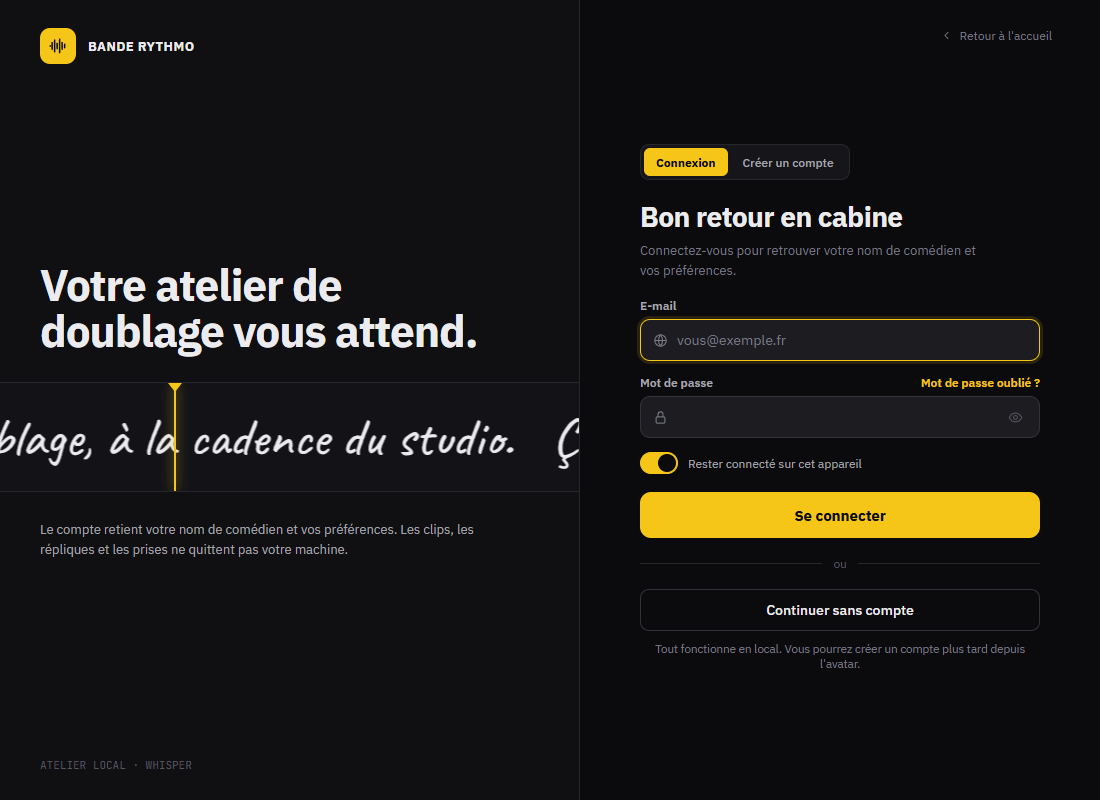
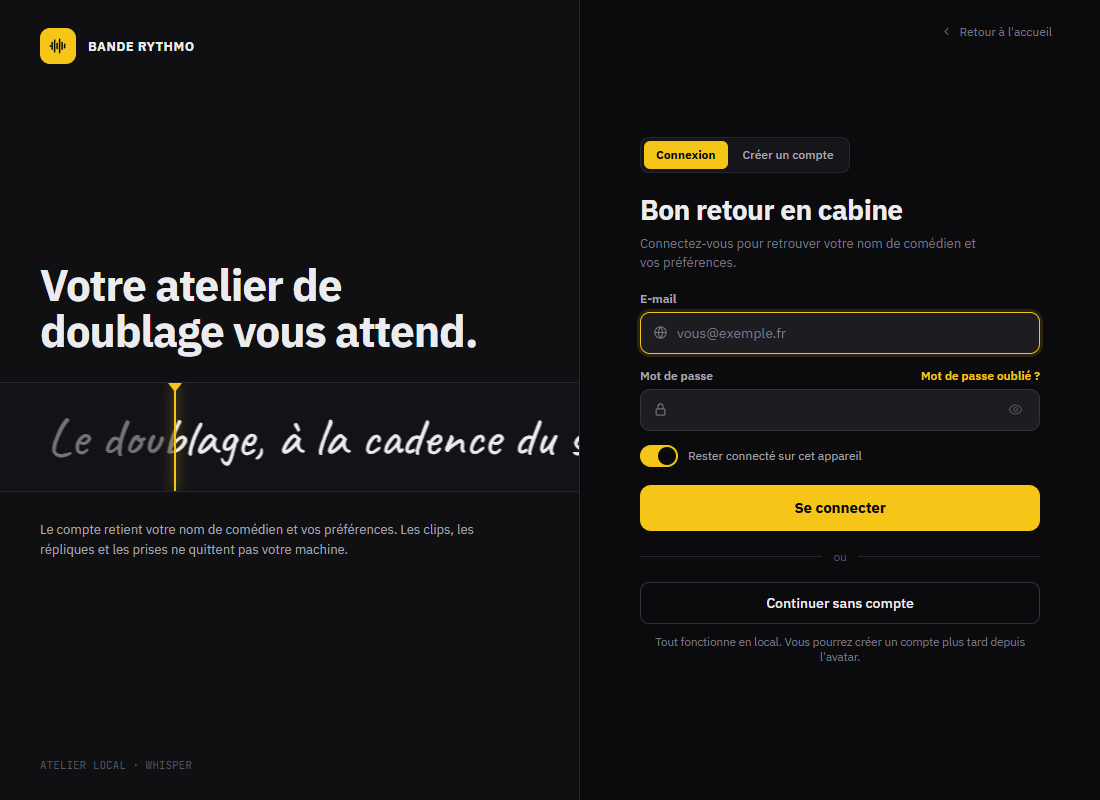
docs(design): Home + Account round 2 report and proofs

diff --git a/design/accounts_home_proofs/shoot_home_stills.py b/design/accounts_home_proofs/shoot_home_stills.py
@@ -1,0 +1,239 @@
+"""Home page stills + OG image (headless Chrome over CDP), on Tears of Steel.
+
+Usage: shoot_home_stills.py <clip_id> <source.mov> [--app URL] [--out DIR] [--port N]
+
+Writes <out>/{import,editor,studio,export}.png at 1440x900 and <out>/../og.png
+at 1200x630. The clip is the Tears of Steel excerpt imported in the
+Bibliothèque. The Importer shot registers the source in memory
+(/api/files/register) and answers its file picker with that source; every
+other non-GET /api/ request is refused — nothing is written to the database.
+
+Tears of Steel: (CC) Blender Foundation | mango.blender.org — CC BY 3.0.
+"""
+import argparse
+import asyncio
+import base64
+import json
+import os
+import subprocess
+import tempfile
+import time
+import urllib.parse
+import urllib.request
+import uuid
+
+import websockets
+
+CHROME = r"C:\Program Files\Google\Chrome\Application\chrome.exe"
+W, H = 1440, 900
+
+_args = argparse.ArgumentParser(description=__doc__, formatter_class=argparse.RawDescriptionHelpFormatter)
+_args.add_argument("clip_id")
+_args.add_argument("source")
+_args.add_argument("--app", default="http://localhost:5173/")
+_args.add_argument("--out", default="frontend/public/home")
+_args.add_argument("--port", type=int, default=9336)
+ARGS = _args.parse_args()
+ROOT = ARGS.app if ARGS.app.endswith("/") else ARGS.app + "/"
+APP = ROOT + "app/"
+SOURCE = os.path.abspath(ARGS.source)
+
+
+def api(method, path, **query):
+    url = ROOT + "api" + path + ("?" + urllib.parse.urlencode(query) if query else "")
+    req = urllib.request.Request(url, method=method, data=b"" if method == "POST" else None)
+    with urllib.request.urlopen(req, timeout=60) as r:
+        return json.loads(r.read())
+
+
+class CDP:
+    def __init__(self, ws):
+        self.ws, self.n = ws, 0
+        self.pending, self.handlers = {}, {}
+        self.reader = asyncio.create_task(self._read())
+
+    async def _read(self):
+        async for raw in self.ws:
+            msg = json.loads(raw)
+            if "id" in msg:
+                fut = self.pending.pop(msg["id"], None)
+                if fut and not fut.done():
+                    fut.set_result(msg)
+            elif msg.get("method") in self.handlers:
+                asyncio.create_task(self.handlers[msg["method"]](msg.get("params", {})))
+
+    def on(self, method, handler):
+        self.handlers[method] = handler
+
+    async def call(self, method, **params):
+        self.n += 1
+        mid = self.n
+        fut = asyncio.get_running_loop().create_future()
+        self.pending[mid] = fut
+        await self.ws.send(json.dumps({"id": mid, "method": method, "params": params}))
+        msg = await fut
+        if "error" in msg:
+            raise RuntimeError(f"{method}: {msg['error']}")
+        return msg.get("result", {})
+
+    async def js(self, expr):
+        r = await self.call("Runtime.evaluate", expression=expr, awaitPromise=True, returnByValue=True)
+        if "exceptionDetails" in r:
+            raise RuntimeError(r["exceptionDetails"].get("text", "js error") + " :: " + expr[:80])
+        return r.get("result", {}).get("value")
+
+    async def shot(self, path):
+        os.makedirs(os.path.dirname(path), exist_ok=True)
+        r = await self.call("Page.captureScreenshot", format="png")
+        with open(path, "wb") as f:
+            f.write(base64.b64decode(r["data"]))
+        print("saved", path)
+
+    async def go(self, url, wait=3.0):
+        await self.call("Page.navigate", url="about:blank")
+        await asyncio.sleep(0.2)
+        await self.call("Page.navigate", url=url)
+        await asyncio.sleep(wait)
+
+    async def key(self, key, code, vk, text=None):
+        base = dict(key=key, code=code, windowsVirtualKeyCode=vk)
+        await self.call("Input.dispatchKeyEvent", type="rawKeyDown", **base)
+        if text:
+            await self.call("Input.dispatchKeyEvent", type="char", text=text, **base)
+        await self.call("Input.dispatchKeyEvent", type="keyUp", **base)
+        await asyncio.sleep(0.3)
+
+
+async def seek(cdp, t):
+    await cdp.js(f"""new Promise(r => {{ const v = document.querySelector('video');
+      v.pause(); v.addEventListener('seeked', () => setTimeout(r, 400), {{ once: true }}); v.currentTime = {t} }})""")
+
+
+async def set_value(cdp, selector, value):
+    """Type into a React-controlled input (native setter + input event)."""
+    await cdp.js(f"""(() => {{
+      const el = document.querySelector({json.dumps(selector)});
+      Object.getOwnPropertyDescriptor(HTMLInputElement.prototype, 'value').set.call(el, {json.dumps(value)});
+      el.dispatchEvent(new Event('input', {{ bubbles: true }}));
+      return 1 }})()""")
+    await asyncio.sleep(0.3)
+
+
+async def nav_to(cdp, section, clip_id):
+    nav = json.dumps(json.dumps({"section": section, "clipId": clip_id}))
+    await cdp.go(APP, wait=1.5)
+    await cdp.js(f"localStorage.setItem('br-coachmark-seen', '1'); sessionStorage.setItem('br-nav', {nav}); location.reload(); 1")
+    await asyncio.sleep(3.5)
+    await cdp.call("Input.dispatchMouseEvent", type="mouseMoved", x=W - 2, y=H - 2)
+
+
+async def run():
+    pick = {"source_id": str(uuid.uuid4()), "filename": os.path.basename(SOURCE), "path": SOURCE}
+    api("POST", "/files/register", source_id=pick["source_id"], stream_url=SOURCE, filename=pick["filename"])
+    # Shown under the title: a neutral path, not this machine's user folder.
+    pick.update(path="D:\\Rushes\\" + pick["filename"], video_streams=[], audio_streams=[])
+
+    req = urllib.request.Request(f"http://127.0.0.1:{ARGS.port}/json/new?about:blank", method="PUT")
+    target = json.loads(urllib.request.urlopen(req).read())
+    async with websockets.connect(target["webSocketDebuggerUrl"], max_size=80_000_000) as ws:
+        cdp = CDP(ws)
+        await cdp.call("Page.enable")
+        await cdp.call("Runtime.enable")
+        await cdp.call("Emulation.setDeviceMetricsOverride", width=W, height=H, deviceScaleFactor=1, mobile=False)
+
+        async def on_paused(p):
+            rid, r = p["requestId"], p["request"]
+            path = urllib.parse.urlparse(r["url"]).path
+            if path == "/api/files/pick":
+                body = base64.b64encode(json.dumps(pick).encode()).decode()
+                await cdp.call("Fetch.fulfillRequest", requestId=rid, responseCode=200, body=body,
+                               responseHeaders=[{"name": "Content-Type", "value": "application/json"}])
+            elif r["method"] != "GET" and path.startswith("/api/"):
+                print("  blocked", r["method"], path)
+                body = base64.b64encode(b'{"detail":"bloque par shoot_home_stills.py"}').decode()
+                await cdp.call("Fetch.fulfillRequest", requestId=rid, responseCode=503, body=body,
+                               responseHeaders=[{"name": "Content-Type", "value": "application/json"}])
+            else:
+                await cdp.call("Fetch.continueRequest", requestId=rid)
+
+        cdp.on("Fetch.requestPaused", on_paused)
+        await cdp.call("Fetch.enable", patterns=[{"urlPattern": "*/api/*", "requestStage": "Request"}])
+
+        # Importer: the source open, IN at 0:20 and OUT at 0:56 (the excerpt).
+        await nav_to(cdp, "import", None)
+        await cdp.js("""(() => { const b = [...document.querySelectorAll('button')].find(x => /Fichier local/.test(x.innerText)); b?.click(); return 1 })()""")
+        await asyncio.sleep(0.5)
+        await cdp.js("""(() => { const b = [...document.querySelectorAll('button, [role=button]')].find(x => /choisir un fichier local/i.test(x.innerText) && x.offsetParent); b?.click(); return 1 })()""")
+        await asyncio.sleep(4)
+        await seek(cdp, 20)
+        await cdp.key("i", "KeyI", 73, "i")
+        await seek(cdp, 56)
+        await cdp.key("o", "KeyO", 79, "o")
+        await cdp.js("""(() => { const d = [...document.querySelectorAll('div')].reverse().find(x => x.innerText?.trim() === 'Cliquez pour activer le son'); d?.click(); return 1 })()""")
+        await asyncio.sleep(0.5)
+        await set_value(cdp, 'input[placeholder="Nom du clip…"]', "Le pont")
+        await seek(cdp, 33)
+        await cdp.js("document.activeElement.blur(); 1")
+        await asyncio.sleep(1)
+        await cdp.shot(os.path.join(ARGS.out, "import.png"))
+
+        # Éditeur on « Why don't you just admit… » (CELIA).
+        await nav_to(cdp, "dub", ARGS.clip_id)
+        await seek(cdp, 12.2)
+        await asyncio.sleep(1.2)
+        await cdp.shot(os.path.join(ARGS.out, "editor.png"))
+
+        # Exporter, opened from the Éditeur.
+        await cdp.key("e", "KeyE", 69, "e")
+        await asyncio.sleep(1.5)
+        await cdp.shot(os.path.join(ARGS.out, "export.png"))
+
+        # Studio in « prêt ».
+        await nav_to(cdp, "record", ARGS.clip_id)
+        await cdp.key("ArrowRight", "ArrowRight", 39)
+        await set_value(cdp, 'input[placeholder="Nom du comédien…"]', "Camille R.")
+        await cdp.js("document.activeElement.blur(); 1")
+        await asyncio.sleep(2)
+        await cdp.shot(os.path.join(ARGS.out, "studio.png"))
+
+        # OG image: logo + headline over the home's live band strip.
+        await cdp.call("Emulation.setDeviceMetricsOverride", width=1200, height=630, deviceScaleFactor=1, mobile=False)
+        await cdp.go(ROOT, wait=3)
+        await cdp.js("""(() => {
+          const band = document.querySelector('.band');
+          const og = document.createElement('div');
+          og.innerHTML = `<div style="padding:64px 72px 0;height:402px;box-sizing:border-box;background:#0b0b0d">
+            <div class="logo" style="font-size:20px"><span class="logo-tile" style="width:48px;height:48px;border-radius:13px">${document.querySelector('.logo-tile').innerHTML}</span>BANDE RYTHMO</div>
+            <h1 style="font-size:62px;margin-top:44px;max-width:1056px">Le doublage, à <em>la cadence</em> du studio.</h1></div>`;
+          og.append(band);
+          document.body.replaceChildren(og);
+          document.body.style.overflow = 'hidden';
+          band.querySelector('canvas').style.height = '228px';
+          return 1 })()""")
+        await asyncio.sleep(1.5)
+        await cdp.shot(os.path.join(os.path.dirname(os.path.abspath(ARGS.out)), "og.png"))
+        cdp.reader.cancel()
+
+
+def main():
+    profile = tempfile.mkdtemp(prefix="br-shot-stills-")
+    proc = subprocess.Popen([
+        CHROME, "--headless=new", f"--remote-debugging-port={ARGS.port}", f"--user-data-dir={profile}",
+        "--no-first-run", "--no-default-browser-check", "--autoplay-policy=no-user-gesture-required",
+        "--use-fake-ui-for-media-stream", "--use-fake-device-for-media-stream", "--hide-scrollbars", f"--window-size={W},{H}",
+        "about:blank",
+    ], stdout=subprocess.DEVNULL, stderr=subprocess.DEVNULL)
+    try:
+        for _ in range(50):
+            try:
+                urllib.request.urlopen(f"http://127.0.0.1:{ARGS.port}/json/version", timeout=1)
+                break
+            except OSError:
+                time.sleep(0.2)
+        asyncio.run(run())
+    finally:
+        subprocess.run(["taskkill", "/F", "/T", "/PID", str(proc.pid)], stdout=subprocess.DEVNULL, stderr=subprocess.DEVNULL)
+
+
+if __name__ == "__main__":
+    main()

diff --git a/design/accounts_home_proofs/shoot_accounts_home.py b/design/accounts_home_proofs/shoot_accounts_home.py
@@ -7,7 +7,7 @@ e-mail sending on, three devices), so no account is created. Every other
 non-GET /api/ request is refused by CDP Fetch interception — nothing is
 written to the backend.
 
-Writes home/01..04 and account/01..07 (+ account/01-login-1100.png).
+Writes home/01..05, legal/01 and account/01..07 (+ account/01-login-1100.png).
 """
 import argparse
 import asyncio
@@ -187,6 +187,11 @@ async def run():
         await cdp.js("document.querySelectorAll('.step')[2].click(); 1")
         await asyncio.sleep(0.8)
         await cdp.shot("home/04-flow-step3.png")
+        await cdp.js("document.documentElement.style.scrollBehavior = 'auto'; document.getElementById('telecharger').scrollIntoView(); scrollBy(0, -88); 1")
+        await asyncio.sleep(0.6)
+        await cdp.shot("home/05-download.png")
+        await cdp.go(ROOT + "conditions.html", wait=2)
+        await cdp.shot("legal/01-conditions.png")
         await cdp.size(900, 900)
         await cdp.go(ROOT, wait=2)
         await cdp.shot("home/02-home-900.png", full=True)

diff --git a/design/accounts_home_proofs/README.md b/design/accounts_home_proofs/README.md
@@ -1,4 +1,38 @@
-# HOME + ACCOUNT — implementation report
+# HOME + ACCOUNT — round 2 (`FIXES_ACCOUNT_HOME_R2.md`)
+
+All proofs below were reshot after round 2. The round-1 report follows.
+
+| # | Status | Where to look |
+|---|---|---|
+| 1 Band chips over the text | ✅ Chips sit in the ruler row, bottom-right, on solid `bg` + `border2`. Below 520px only the TC chip stays. | `home/01`, `02`, `03` |
+| 2 Outdated / unlicensed stills | ✅ All 4 flow stills and the hero shot recaptured from the current app on ***Tears of Steel*** (Blender Foundation, **CC BY 3.0**). Credit under the hero shot and in the footer. `alt` texts describe the UI. Studio is v2 in *prêt*. | `home/01`, `04`; `frontend/public/home/*.png` |
+| 3 Logout glyph | ✅ `ICONS.logout` (door + arrow) in the avatar menu and on the Mon compte button. | `account/04`, `05` |
+| 4 Labels against tall content | ✅ `Field top` → `align-items:flex-start` + 6px on the label (devices, open password / e-mail / delete forms). | `account/05`, `06` |
+| 5 Header far from the content | ✅ Header constrained to the 720px column. | `account/05` |
+| 6 « Enregistrer » when unchanged | ✅ Row hidden until dirty, slides in (opacity + 4px, .15s) with Annuler; « Profil enregistré » stays after saving. | `account/05` |
+| 7 Auth at 1100 | ✅ Back link taken out of the flow, form centred. Band: three copies scrolled ⅓ → ⅔, so the text starts at the playhead and loops without a jump; the past (left of the playhead) is dimmed like the home strip. | `account/01-login-1100` |
+| 8 Terms | ✅ `/conditions.html`, same layout as `/confidentialite.html`, notice « Version provisoire · à compléter ». Text in `frontend/docs/conditions.md` (rendered by a small Markdown renderer). Linked from the register checkbox and the home footer. | `legal/01-conditions` |
+| 9 Public product page | ⚠ Adapted — see below. | `home/05-download` |
+| 10 Namespace for migration | ✅ The account id was already a UUID (`users.id`) with `created_at`; preferences are now stored as `{"v": 1, "settings": {…}}` (older bare blobs still read as v1). | backend test |
+
+Also added for #9: `<meta name="description">`, Open Graph + Twitter card, `og.png` (1200×630, logo + headline over the live band strip) and an SVG favicon from the logo tile on every page.
+
+### #9 — what the user decided, and how it differs from the brief
+
+The questions in this brief were put to the user again before building. Their answers:
+
+- **There is no build to download yet.** The section exists with the three cards (Windows · macOS · Linux), the visitor's OS first with an accent outline and a « Votre système » badge. Each card says « Bientôt disponible ». **« Me prévenir » is disabled**: on a public page « stored locally » would mean the visitor's own browser, so nothing would ever reach anyone. It comes alive with the hosted account. The requirements line is there; the release-notes link is replaced by « Notes de version avec la première version ».
+- **The home is served locally for now** (by the atelier itself). So there is **no `/api/health` probe**: it would always succeed locally, and from a public https page a probe of `http://localhost` is blocked by the browser (mixed content + local-network access). « Ouvrir l'atelier » stays the hero secondary CTA. **`home/06-hero-no-atelier.png` was not produced** for that reason.
+- **CTAs:** « Télécharger » is primary in the nav, the hero and the closing CTA; « Se connecter » stays ghost in the nav; « Créer un compte » is gone from the home page.
+
+**For the brief that makes the page public:** decide where it's hosted, how the download links and « Me prévenir » are served, and what « Ouvrir l'atelier » / « Se connecter » become on a machine without the atelier.
+
+### Footage
+*Tears of Steel* (c) Blender Foundation | mango.blender.org, CC BY 3.0. The excerpt (0:20 → 0:56, the bridge scene, 10 répliques, CELIA / THOM / TECH) is in the user's Bibliothèque as « Tears of Steel — le pont ». Stills: `shoot_home_stills.py <clip_id> <source.mov>` (also writes `og.png`).
+
+---
+
+# HOME + ACCOUNT — implementation report (round 1)
 
 **For:** Claude Design. **Briefs:** `../design_handoff_redesign_v2/HOME.md` and `ACCOUNT.md`.
 **Branch:** `feat/accounts-home` (rebased on `main` after the Jellyfin merge, 2026-10-22).
@@ -14,6 +48,8 @@ All captures are 1440×900 unless noted. `/api/auth/*` is mocked in the page (fa
 | `home/02-home-900.png` | HOME | full page, 900 wide (hero on 1 column, nav links hidden) |
 | `home/03-home-390.png` | HOME | full page, 390 wide |
 | `home/04-flow-step3.png` | HOME | Flux tab 03 « Enregistrer » selected |
+| `home/05-download.png` | R2 #9 | Télécharger, the detected OS (Windows) first |
+| `legal/01-conditions.png` | R2 #8 | Conditions d'utilisation, provisional |
 | `account/01-login.png` | ACCOUNT §1 | Connexion |
 | `account/01-login-1100.png` | ACCOUNT §1 | Connexion at 1100×800 (brand panel still shown, it hides below 900) |
 | `account/02-register-errors.png` | ACCOUNT §1 | inline errors after the first submit, strength bar « Trop court » |
